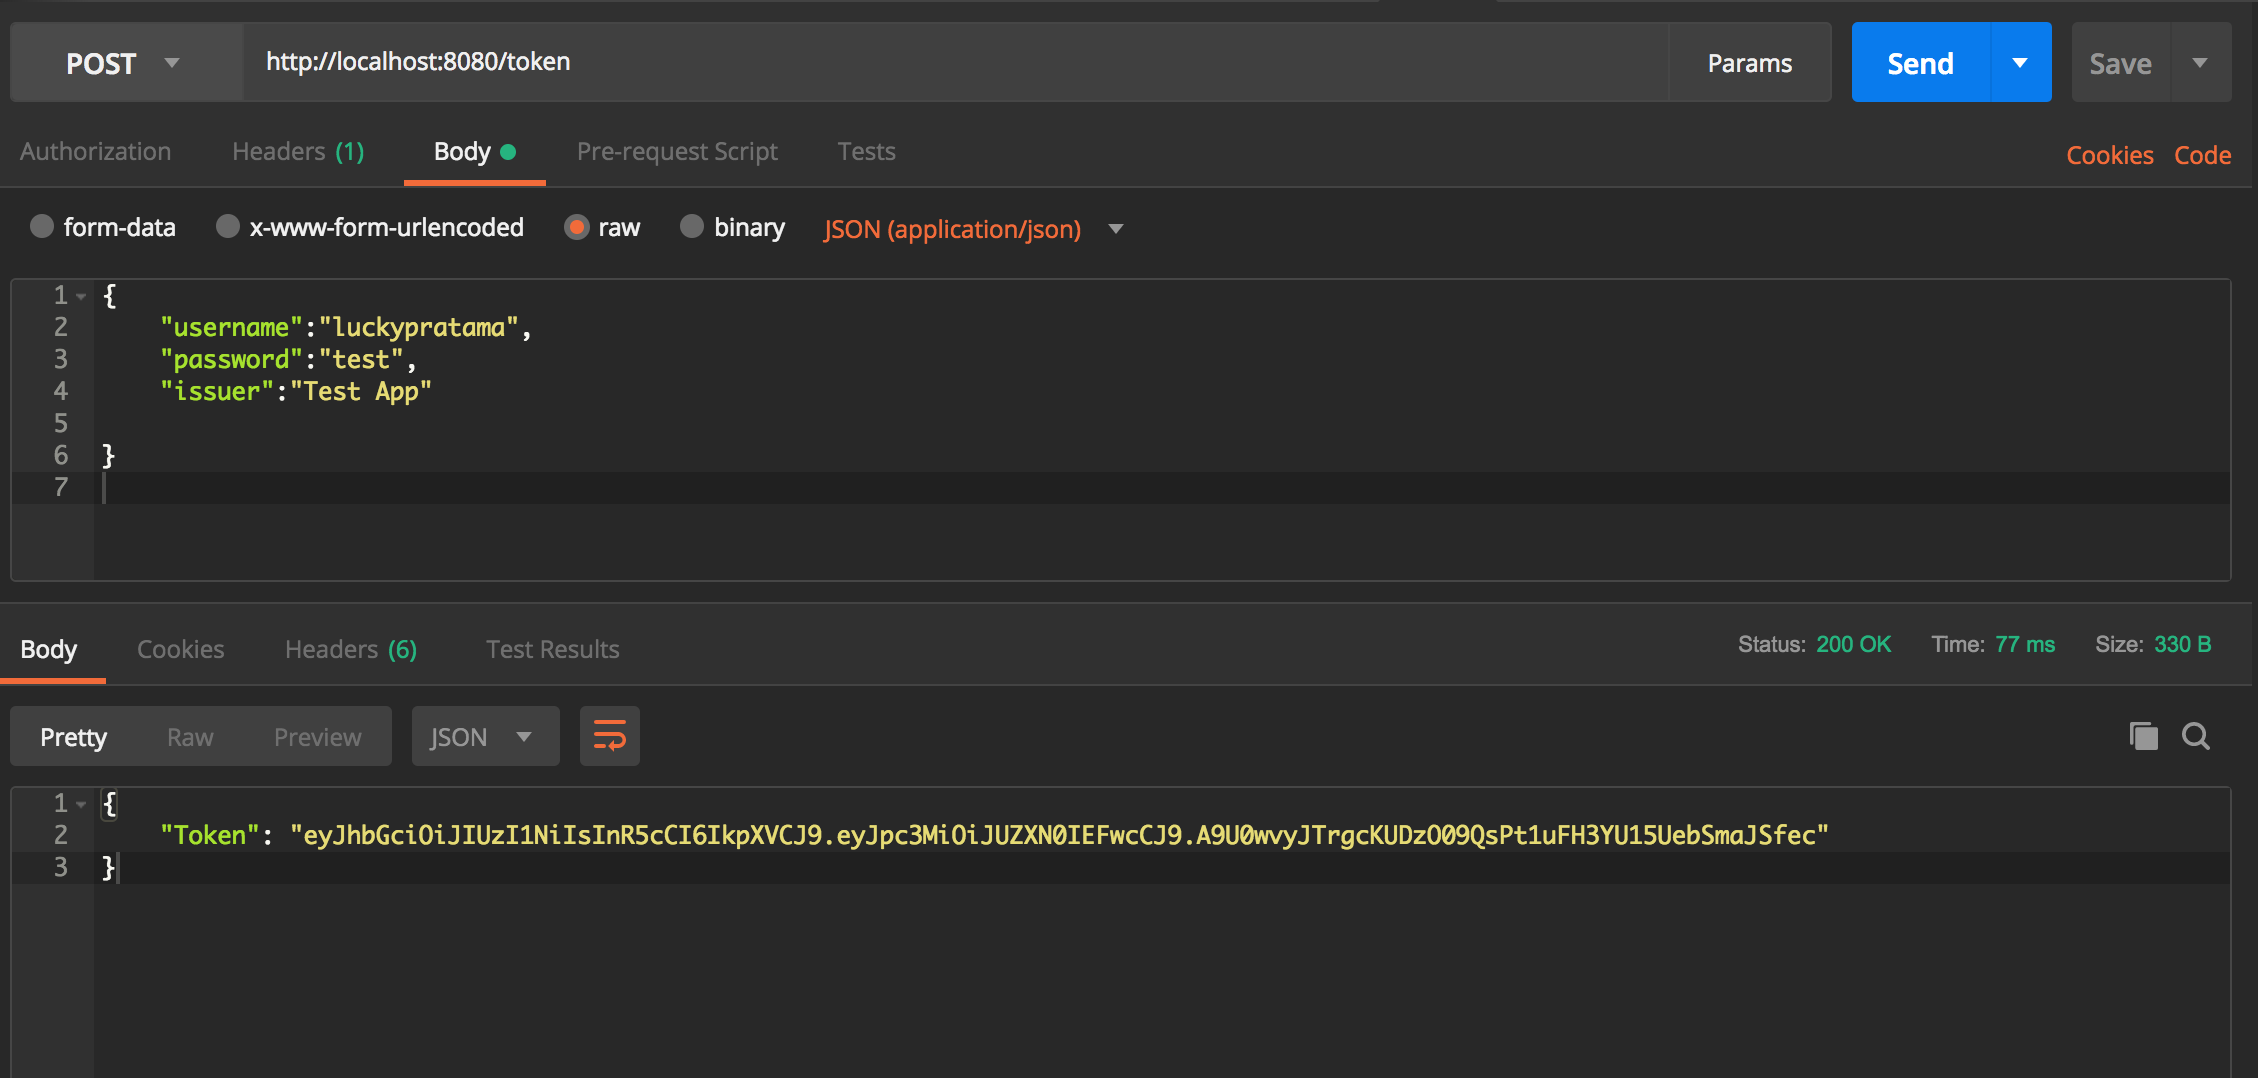
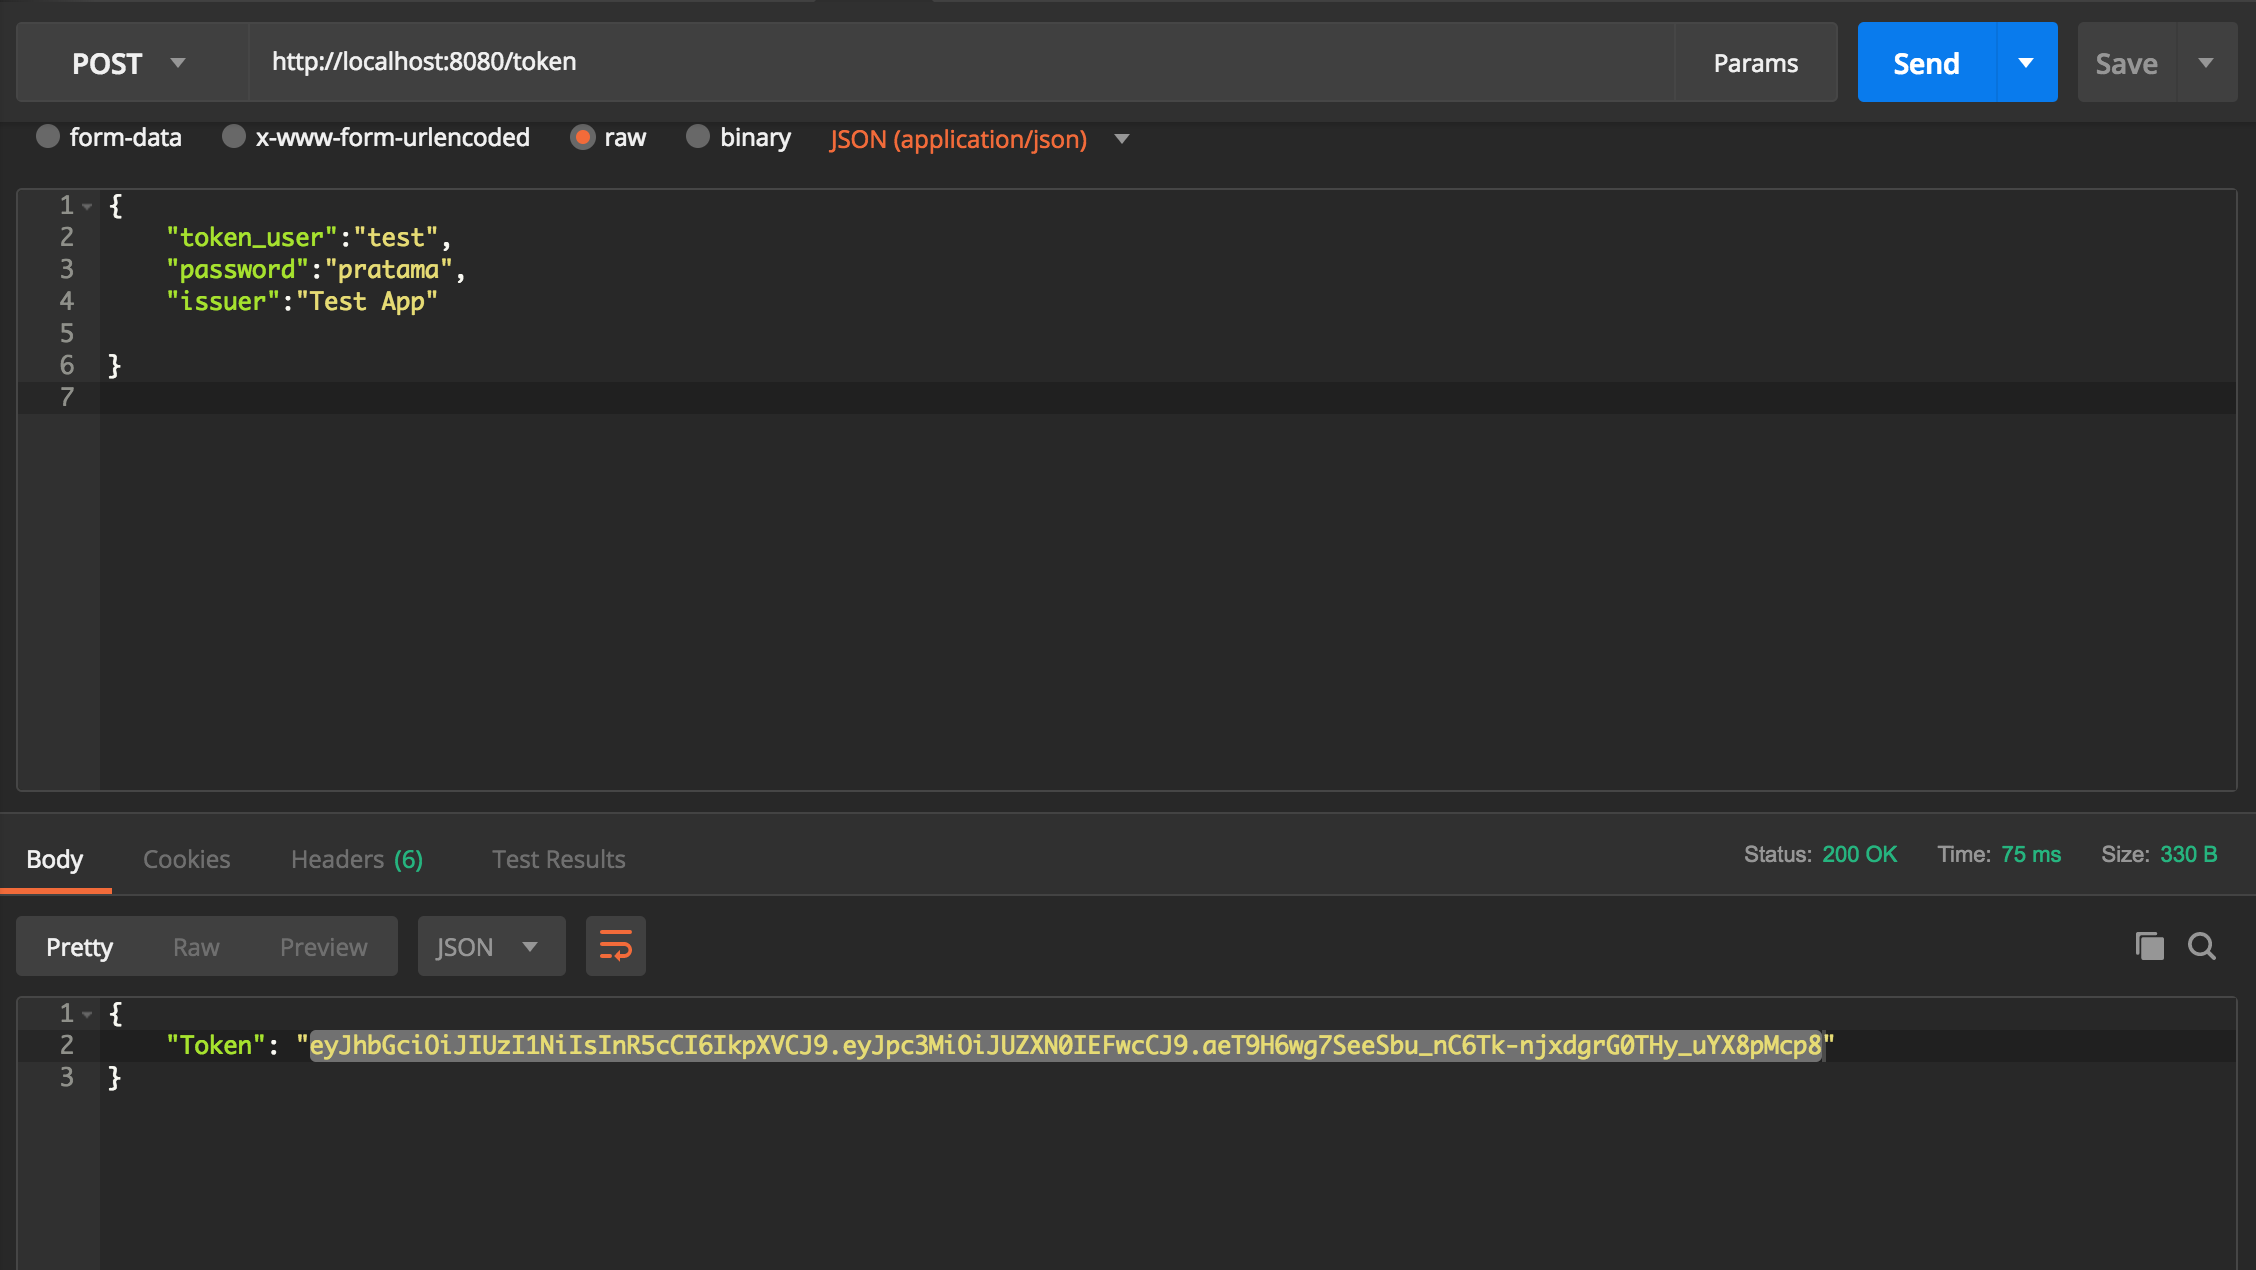
Updating code

diff --git a/main.go b/main.go
@@ -3,6 +3,8 @@ package main
 import (
 	"encoding/json"
 	"fmt"
+	h "go_jwt_mux_bcrypt_negroni_middleware/headers"
+	m "go_jwt_mux_bcrypt_negroni_middleware/models"
 	"net/http"
 
 	"github.com/codegangsta/negroni"
@@ -17,17 +19,6 @@ import (
 var db *gorm.DB
 var e error
 
-type User struct {
-	Username string `gorm:"primary_key" json:"username"`
-	Password string `json"password"`
-	Token    string `json:"token"`
-	Issuer   string `json:"issuer"`
-}
-
-type UserClaims struct {
-	jwt.StandardClaims
-}
-
 func main() {
 	db, e = gorm.Open("postgres", "host=localhost port=5432 user=postgres password=pratama dbname=postgres sslmode=disable")
 	if e != nil {
@@ -37,7 +28,7 @@ func main() {
 	}
 	defer db.Close()
 	db.SingularTable(false)
-	db.AutoMigrate(&User{})
+	db.AutoMigrate(&m.UserToken{}, m.User{})
 
 	router := mux.NewRouter()
 	router.Path("/").HandlerFunc(HomeHandler)
@@ -51,70 +42,57 @@ func main() {
 		negroni.Wrap(authMiddleware),
 	))
 
-	authRoutes := authMiddleware.PathPrefix("/apiname").Subrouter()
-	authRoutes.HandleFunc("/landingpage", LandingHandler).Methods("GET")
+	apiRoute := authMiddleware.PathPrefix("/apiname").Subrouter()
+	apiRoute.HandleFunc("/register", RegisterUser).Methods("POST")
+	apiRoute.HandleFunc("/login", LoginHandler).Methods("POST")
+	apiRoute.HandleFunc("/landingpage", LandingHandler).Methods("GET")
 	http.ListenAndServe(":8080", router)
 }
 
 //HomeHandler can be invoked by anyone
 func HomeHandler(res http.ResponseWriter, req *http.Request) {
-	res.Header().Add("Access-Control-Expose-Headers", "Response-Code, Response-Desc")
-	res.Header().Set("Content-Type", "application/json")
-	res.Header().Set("Response-Code", "00")
-	res.Header().Set("Response-Desc", "Success")
-	res.WriteHeader(200)
+	h.Success(res)
 	res.Write([]byte(`{"message":"Welcome home"}`))
 }
 
 //GenerateUserToken is used to generate token
 func GenerateUserToken(res http.ResponseWriter, req *http.Request) {
-	var user User
-	res.Header().Set("Content-Type", "application/json")
-	res.Header().Add("Access-Control-Expose-Headers", "Response-Code, Response-Desc")
+	var userToken m.UserToken
+	var _ = json.NewDecoder(req.Body).Decode(&userToken)
 
-	var _ = json.NewDecoder(req.Body).Decode(&user)
-
-	if user.Username == "" || user.Password == "" {
-		res.Header().Set("Response-Code", "04")
-		res.Header().Set("Response-Desc", "Please provide user credential properly!!!!")
-		res.WriteHeader(400)
-		res.Write([]byte(`{"message":"Bad request!!!"`))
+	if userToken.TokenUser == "" || userToken.Password == "" {
+		h.AuthFailed(res)
+		res.Write([]byte(`{"message":"Bad request!!!"}`))
 	} else {
 
-		claims := UserClaims{
+		claims := m.UserClaims{
 			jwt.StandardClaims{
-				Issuer: user.Issuer,
+				Issuer: userToken.Issuer,
 			},
 		}
 
-		hash, e := bcrypt.GenerateFromPassword([]byte(user.Password), bcrypt.DefaultCost)
+		encryptedPassword, e := bcrypt.GenerateFromPassword([]byte(userToken.Password), bcrypt.DefaultCost)
 		if e != nil {
 			fmt.Println(e)
 		}
 
 		token := jwt.NewWithClaims(jwt.SigningMethodHS256, claims)
-		ss, err := token.SignedString(hash)
+		ss, err := token.SignedString(encryptedPassword)
 
 		if err != nil {
-			res.Header().Set("Response-Code", "02")
-			res.Header().Set("Response-Desc", "Internal server error")
-			res.WriteHeader(500)
+			h.ServerError(res)
 			res.Write([]byte(`{"message":"` + err.Error() + `"}`))
 		} else {
-			if e := db.Debug().Where("username = ?", user.Username).First(&user).Error; e != nil {
-				res.Header().Set("Response-Code", "00")
-				res.Header().Set("Response-Desc", "Success")
-				user.Token = ss
-				user.Password = string(hash)
-				db.Create(&user)
-				res.WriteHeader(200)
+			if e := db.Debug().Where("token_user = ?", userToken.TokenUser).First(&userToken).Error; e != nil {
+				userToken.Token = ss
+				userToken.Password = string(encryptedPassword)
+				db.Create(&userToken)
+				h.Success(res)
 				res.Write([]byte(`{"Token":"` + ss + `"}`))
 			} else {
 				fmt.Println(e)
-				res.Header().Set("Response-Code", "04")
-				res.Header().Set("Response-Desc", "Username is already exists!!!!!!!!")
-				res.WriteHeader(400)
-				res.Write([]byte(`{"message":"Bad request!!!"}`))
+				h.AlreadyExists(res)
+				res.Write([]byte(`{"message":"Token is already exists"}`))
 			}
 		}
 	}
@@ -122,48 +100,70 @@ func GenerateUserToken(res http.ResponseWriter, req *http.Request) {
 
 //JwtMiddleware as auth handler
 func JwtMiddleware(res http.ResponseWriter, req *http.Request, next http.HandlerFunc) {
-	var claims UserClaims
-	var user User
-	res.Header().Set("Content-Type", "application/json")
-	res.Header().Add("Access-Control-Expose-Headers", "Response-Code, Response-Desc")
-	var _ = json.NewDecoder(req.Body).Decode(&user)
-	//	userPassword := user.Password
+	var claims m.UserClaims
+	var userToken m.UserToken
 	tokenString := req.Header.Get("Authorization")
 	fmt.Println("Authenticating....")
-	if e := db.Where("token = ?", tokenString).First(&user).Error; e != nil {
-		res.Header().Set("Response-Code", "01")
-		res.Header().Set("Response-Desc", "Bad request!!!!! your token is invalid!!!!!!")
-		res.WriteHeader(400)
+	if e := db.Where("token = ?", tokenString).First(&userToken).Error; e != nil {
+		h.NotFound(res)
 		res.Write([]byte(`{"message":"Bad request!!!!! your token is invalid!!!!!!"}`))
 	} else {
 		token, err := jwtreq.ParseFromRequestWithClaims(req, jwtreq.AuthorizationHeaderExtractor, &claims, func(token *jwt.Token) (interface{}, error) {
-			fmt.Println([]byte(user.Password))
-			return []byte(user.Password), nil
+			return []byte(userToken.Password), nil
 		})
 		if err != nil {
 			fmt.Println(err)
-			res.Header().Set("Response-Code", "02")
-			res.Header().Set("Response-Desc", "Internal server error")
-			res.WriteHeader(500)
+			h.ServerError(res)
 			res.Write([]byte(`{"message":"Failed to parse token"}`))
 
 		} else if !token.Valid {
-			res.Header().Set("Response-Code", "03")
-			res.Header().Set("Response-Desc", "Unauthorized")
-			res.WriteHeader(401)
+			h.Unauthorized(res)
 			res.Write([]byte(`{"message":"Invalid token"}`))
-
 		} else {
 			next(res, req)
 		}
 	}
 }
 
-//LandingHandler
+//RegisterUser is used to register user
+func RegisterUser(res http.ResponseWriter, req *http.Request) {
+	var user m.User
+	var _ = json.NewDecoder(req.Body).Decode(&user)
+	fmt.Println("Username is", user.Username)
+	if e := db.Debug().Where("username = ?", user.Username).First(&user).Error; e != nil {
+		encryptedPassword, e := bcrypt.GenerateFromPassword([]byte(user.Password), bcrypt.DefaultCost)
+		if e != nil {
+			fmt.Println(e)
+		}
+		user.Password = string(encryptedPassword)
+		db.Create(&user)
+		h.Success(res)
+	} else {
+		h.AlreadyExists(res)
+	}
+}
+
+//LoginHandler is used to login in frontend app
+func LoginHandler(res http.ResponseWriter, req *http.Request) {
+	var user m.User
+	var _ = json.NewDecoder(req.Body).Decode(&user)
+	userPassword := user.Password
+	if e := db.Where("username =?", user.Username).First(&user).Error; e != nil {
+		fmt.Println("Not Found")
+	} else {
+		if e := bcrypt.CompareHashAndPassword([]byte(user.Password), []byte(userPassword)); e != nil {
+			fmt.Println(e)
+			h.AuthFailed(res)
+			res.Write([]byte(`{"Response-Description":"Given password for username: ` + user.Username + ` is not match"}`))
+		} else {
+			h.Success(res)
+			res.Write([]byte(`{"message":"You are authenticated user"}`))
+		}
+	}
+}
+
+//LandingHandler is used to show data after user provide its credential in frontend app
 func LandingHandler(res http.ResponseWriter, req *http.Request) {
-	res.Header().Set("Content-Type", "application/json")
-	res.Header().Set("Response-Code", "00")
-	res.Header().Set("Response-Desc", "Success")
-	res.WriteHeader(200)
+	h.Success(res)
 	res.Write([]byte(`{"message":"Landing Page Data"}`))
 }

diff --git a/headers/response_header.go b/headers/response_header.go
@@ -1,0 +1,59 @@
+package headers
+
+import (
+	"net/http"
+)
+
+//Success is used to inform that particular service invocation gives success response
+func Success(res http.ResponseWriter) {
+	res.Header().Set("Content-Type", "application/json")
+	res.Header().Add("Access-Control-Expose-Headers", "Response-Code, Response-Desc")
+	res.Header().Set("Response-Code", "Success")
+	res.Header().Set("Response-Desc", "00")
+	res.WriteHeader(200)
+}
+
+//NotFound is used to inform that data is not found
+func NotFound(res http.ResponseWriter) {
+	res.Header().Set("Content-Type", "application/json")
+	res.Header().Add("Access-Control-Expose-Headers", "Response-Code, Response-Desc")
+	res.Header().Set("Response-Code", "Data not found")
+	res.Header().Set("Response-Desc", "01")
+	res.WriteHeader(404)
+}
+
+//ServerError is used to inform that server is error
+func ServerError(res http.ResponseWriter) {
+	res.Header().Set("Content-Type", "application/json")
+	res.Header().Add("Access-Control-Expose-Headers", "Response-Code, Response-Desc")
+	res.Header().Set("Response-Code", "Internal server error")
+	res.Header().Set("Response-Desc", "02")
+	res.WriteHeader(500)
+}
+
+//AlreadyExists
+func AlreadyExists(res http.ResponseWriter) {
+	res.Header().Set("Content-Type", "application/json")
+	res.Header().Add("Access-Control-Expose-Headers", "Response-Code, Response-Desc")
+	res.Header().Set("Response-Code", "Data already exists")
+	res.Header().Set("Response-Desc", "03")
+	res.WriteHeader(400)
+}
+
+//AuthFailed is used to inform when user provide wrong credential
+func AuthFailed(res http.ResponseWriter) {
+	res.Header().Set("Content-Type", "application/json")
+	res.Header().Add("Access-Control-Expose-Headers", "Response-Code, Response-Desc")
+	res.Header().Set("Response-Code", "Authentication failed")
+	res.Header().Set("Response-Desc", "04")
+	res.WriteHeader(400)
+}
+
+//Unauthorized is used to inform when someone has no access to particular route
+func Unauthorized(res http.ResponseWriter) {
+	res.Header().Set("Content-Type", "application/json")
+	res.Header().Add("Access-Control-Expose-Headers", "Response-Code, Response-Desc")
+	res.Header().Set("Response-Code", "Unauthorized")
+	res.Header().Set("Response-Desc", "05")
+	res.WriteHeader(401)
+}

diff --git a/models/user-token.go b/models/user-token.go
@@ -1,0 +1,8 @@
+package models
+
+type UserToken struct {
+	TokenUser string `gorm:"primary_key; type:varchar(100)" json:"token_user"`
+	Password  string `gorm:"type:varchar(100)" json"password"`
+	Token     string `gorm:"type:varchar(255)" json:"token"`
+	Issuer    string `gorm:"type:varchar(50)" json:"issuer"`
+}

diff --git a/models/user.go b/models/user.go
@@ -1,0 +1,7 @@
+package models
+
+type User struct {
+	UserID   uint64 `gorm:"primary_key" json:"user"`
+	Username string `gorm:"type:varchar(100)" json:"username"`
+	Password string `gorm:"type:varchar(100)" json:"password"`
+}

diff --git a/models/user-claims.go b/models/user-claims.go
@@ -1,0 +1,9 @@
+package models
+
+import (
+	jwt "github.com/dgrijalva/jwt-go"
+)
+
+type UserClaims struct {
+	jwt.StandardClaims
+}

diff --git a/README.md b/README.md
@@ -1,4 +1,4 @@
-# GO Auth Middleware Example using JWT, Bcrypt, Gorilla Mux, and Negroni
+# GO Auth Middleware Example using JWT, Bcrypt, Gorilla Mux, Negroni, GORM, and PostgreSQL
 
-<p>Securing API domain using Go, JWT, Bcrypt, Gorilla Mux, and Negroni example.</p>
+<p>Securing API domain using Go, JWT, Bcrypt, Gorilla Mux, Negroni, GORM, and PostgreSQL example.</p>
 <p>The token which is generated by JWT will be used in the request header, so that our backend or service provider couldn't be invoked by the unauthorized one.</p>
